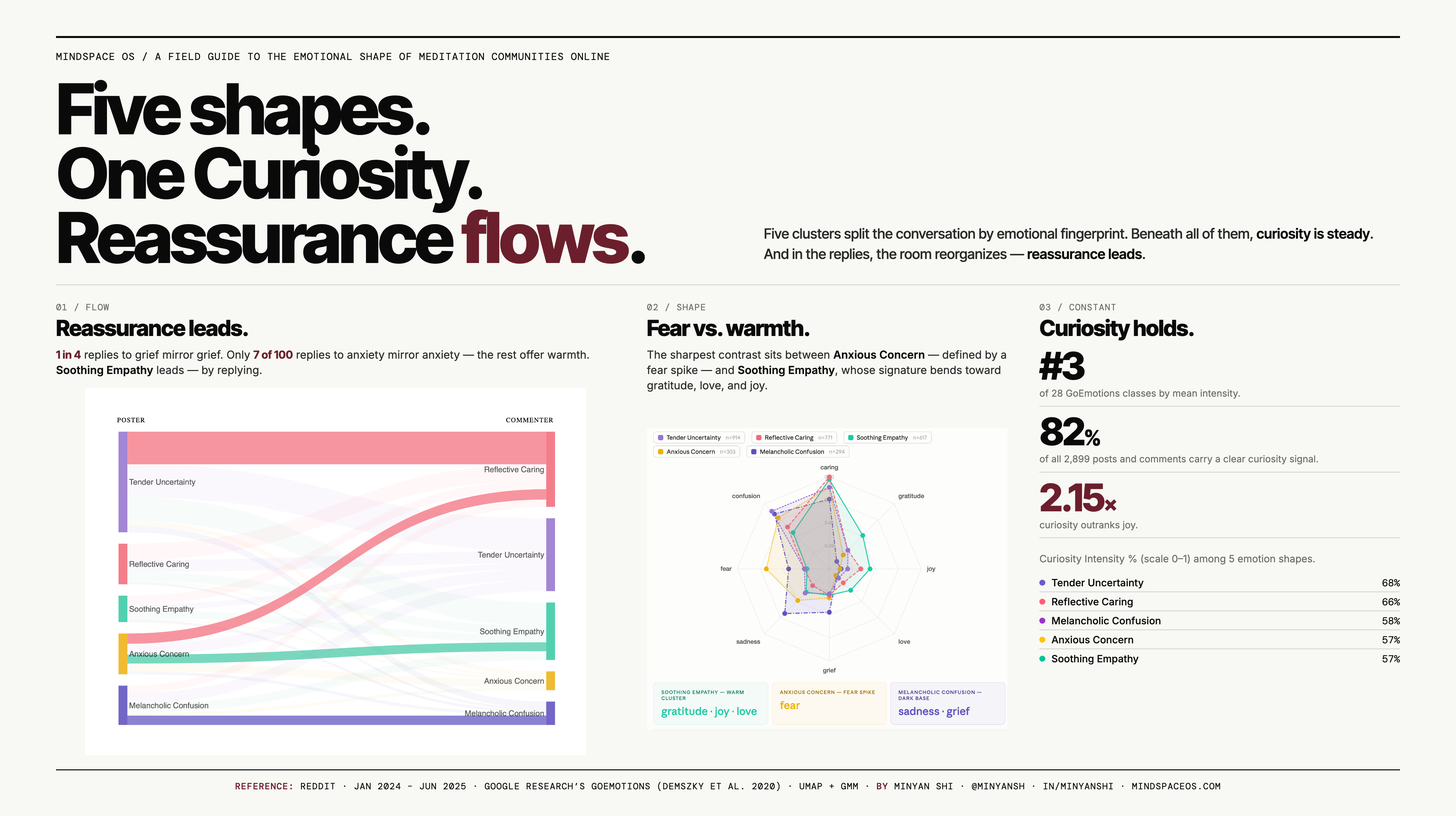
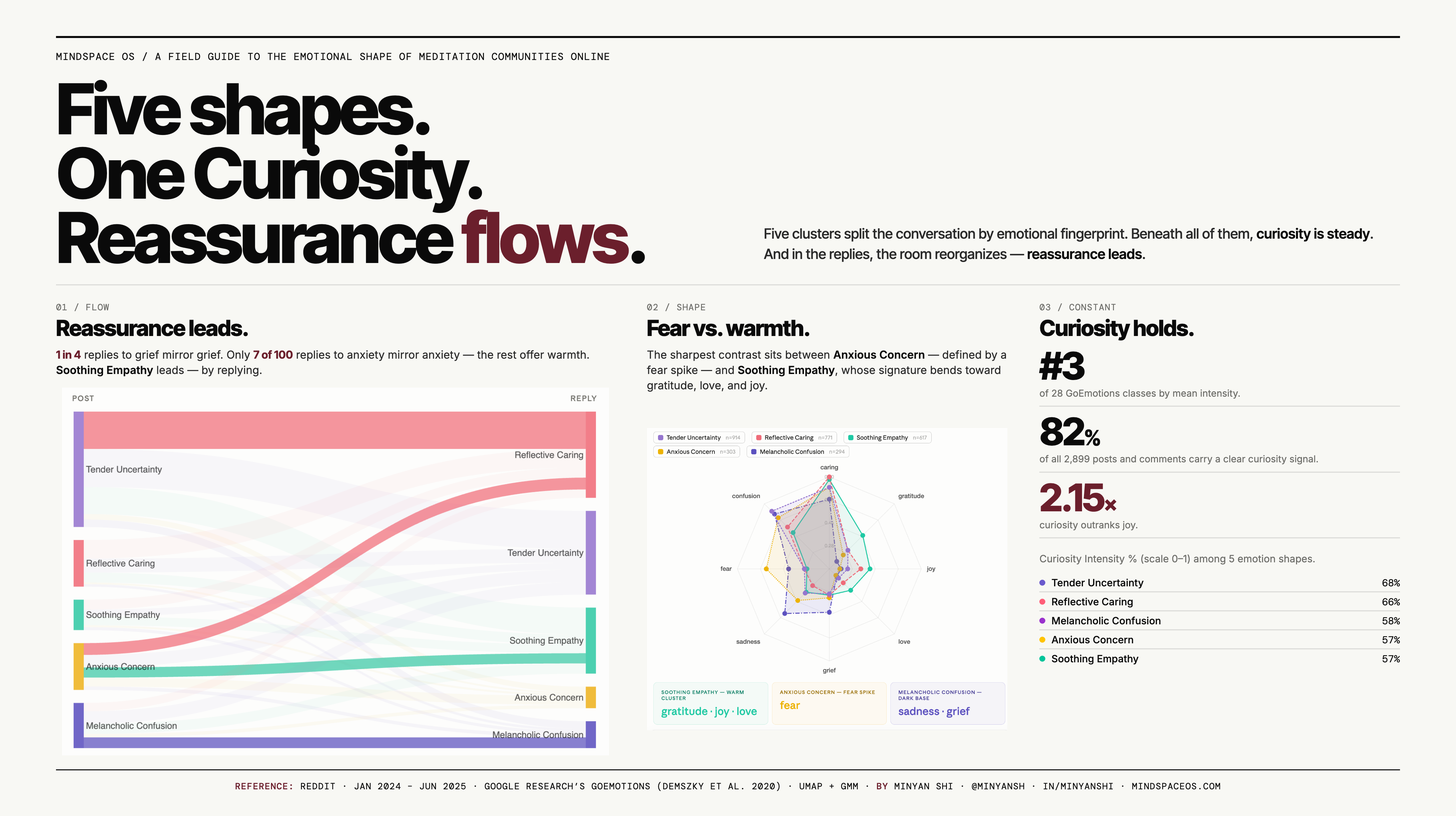
fix(featured): swap Sankey to POST/REPLY labels, restore callout copy
Replaces source-dynamics.png with the user's freshly screenshotted
Sankey that shows POST (left) / REPLY (right) column labels instead of
the original POSTER / COMMENTER. Updates alt text in all four HTML
sources to match (post archetype to reply archetype).

While in there, also restored the canonical Modern-3 FLOW callout in
source-square.html. The committed copy had drifted to an older version
("Soothing Empathy is the dominant commenter shape") even though
square-hq + landscape variants already had the user-approved sharper
version. Synced all four HTMLs to the same callout:

  "1 in 4 replies to grief mirror grief. Only 7 of 100 replies to
   anxiety mirror anxiety — the rest offer warmth.
   Soothing Empathy leads — by replying."

Regenerated the canonical 7-file Modern-3 set via the same pipeline:
- 3x native HiDPI rendering (zoom: 3) at 3600x3600 + 4368x2448
- PIL LANCZOS downsamples for 2400, 1456x816, 2912x1632, 1200, 1080

Older sister variants (variant-section-1, -3, -3-4, variant-D) untouched
per scope decision.

diff --git a/assets/featured-images/dvs-2026-04-27/source-square.html b/assets/featured-images/dvs-2026-04-27/source-square.html
@@ -259,9 +259,10 @@
       <div class="panel-num">01  /  Flow</div>
       <div class="panel-title">Reassurance leads.</div>
       <p class="panel-callout">
-        <span class="num">1 in 4</span> replies to grief mirror grief. <span class="num">7 of 100</span> replies to anxiety mirror anxiety. The rest offer warmth. <strong>Soothing Empathy</strong> is the dominant commenter shape.
+        <span class="num">1 in 4</span> replies to grief mirror grief. Only <span class="num">7 of 100</span> replies to anxiety mirror anxiety &mdash; the rest offer warmth.<br>
+        <strong>Soothing Empathy</strong> leads &mdash; by replying.
       </p>
-      <div class="fig"><img src="source-dynamics.png" alt="Sankey of poster archetype to commenter archetype"></div>
+      <div class="fig"><img src="source-dynamics.png" alt="Sankey of post archetype to reply archetype"></div>
     </div>
 
     <!-- SHAPE (Radar) -->

diff --git a/assets/featured-images/dvs-2026-04-27/source-landscape-hq.html b/assets/featured-images/dvs-2026-04-27/source-landscape-hq.html
@@ -233,7 +233,7 @@ html { zoom: 3; }
       <div class="panel-num">01  /  Flow</div>
       <div class="panel-title">Reassurance leads.</div>
       <p class="panel-callout"><span class="num">1 in 4</span> replies to grief mirror grief. Only <span class="num">7 of 100</span> replies to anxiety mirror anxiety &mdash; the rest offer warmth.<br><strong>Soothing Empathy</strong> leads &mdash; by replying.</p>
-      <div class="fig"><img src="source-dynamics.png" alt="Sankey of poster to commenter archetype"></div>
+      <div class="fig"><img src="source-dynamics.png" alt="Sankey of post to reply archetype"></div>
     </div>
 
     <div class="panel">

diff --git a/assets/featured-images/dvs-2026-04-27/source-landscape.html b/assets/featured-images/dvs-2026-04-27/source-landscape.html
@@ -232,7 +232,7 @@
       <div class="panel-num">01  /  Flow</div>
       <div class="panel-title">Reassurance leads.</div>
       <p class="panel-callout"><span class="num">1 in 4</span> replies to grief mirror grief. Only <span class="num">7 of 100</span> replies to anxiety mirror anxiety &mdash; the rest offer warmth.<br><strong>Soothing Empathy</strong> leads &mdash; by replying.</p>
-      <div class="fig"><img src="source-dynamics.png" alt="Sankey of poster to commenter archetype"></div>
+      <div class="fig"><img src="source-dynamics.png" alt="Sankey of post to reply archetype"></div>
     </div>
 
     <div class="panel">

diff --git a/assets/featured-images/dvs-2026-04-27/source-square-hq.html b/assets/featured-images/dvs-2026-04-27/source-square-hq.html
@@ -269,7 +269,7 @@ html { zoom: 3; }
         <span class="num">1 in 4</span> replies to grief mirror grief. Only <span class="num">7 of 100</span> replies to anxiety mirror anxiety &mdash; the rest offer warmth.<br>
         <strong>Soothing Empathy</strong> leads &mdash; by replying.
       </p>
-      <div class="fig"><img src="source-dynamics.png" alt="Sankey of poster archetype to commenter archetype"></div>
+      <div class="fig"><img src="source-dynamics.png" alt="Sankey of post archetype to reply archetype"></div>
     </div>
 
     <!-- SHAPE (Radar) -->
